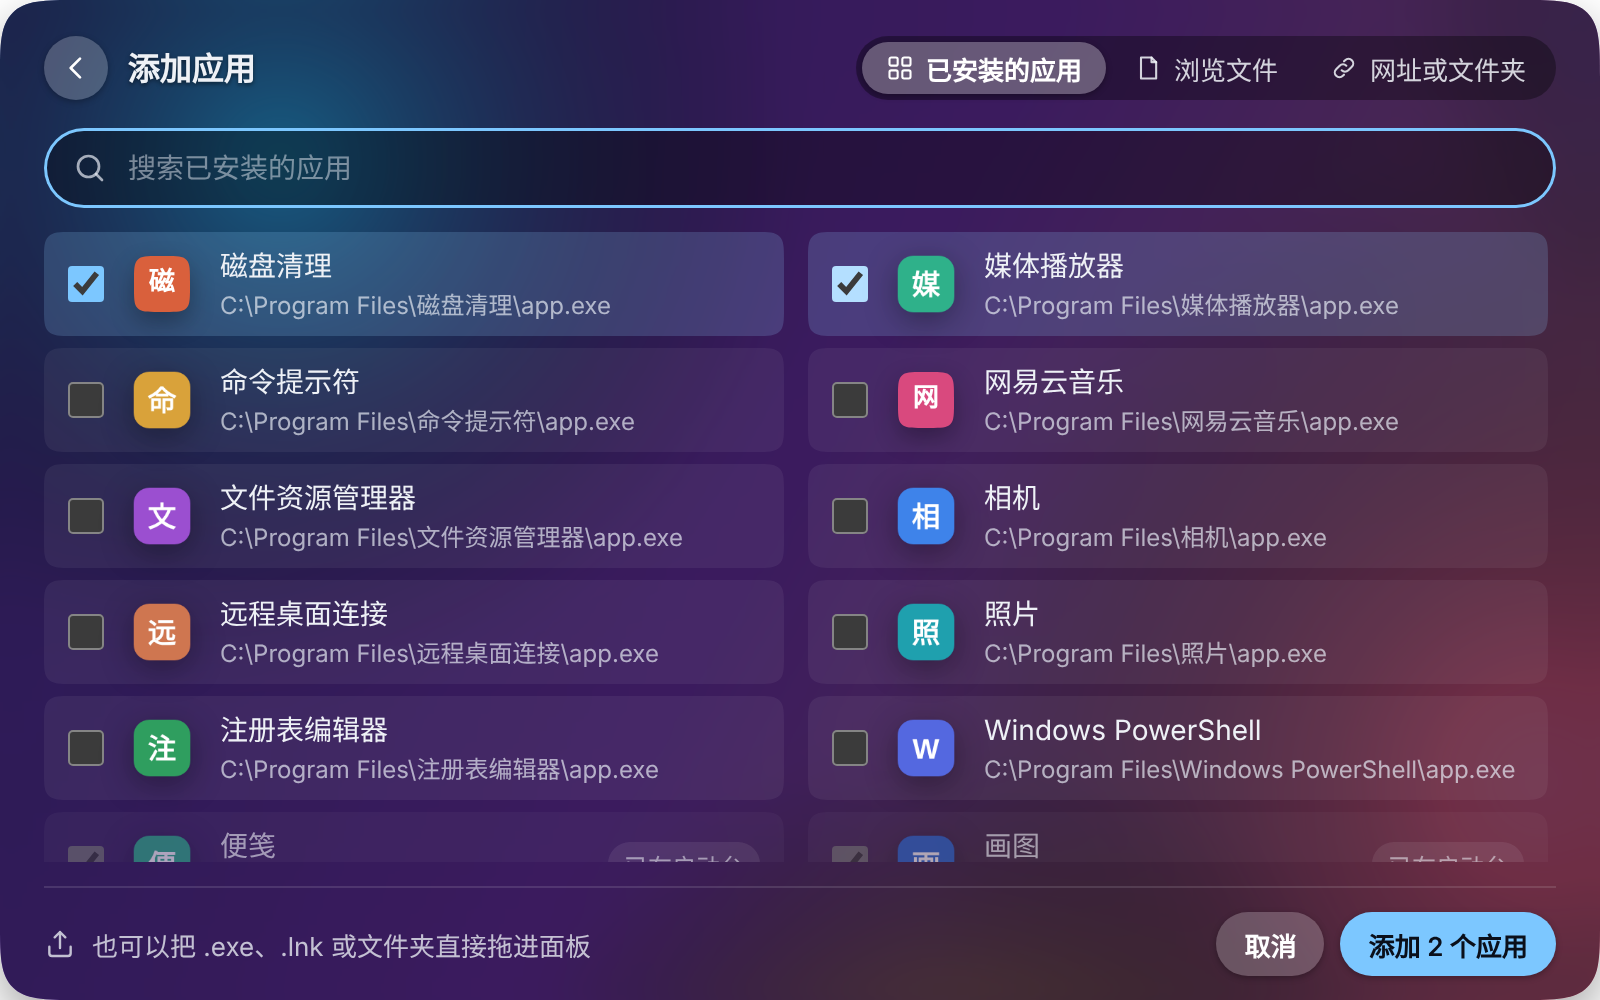
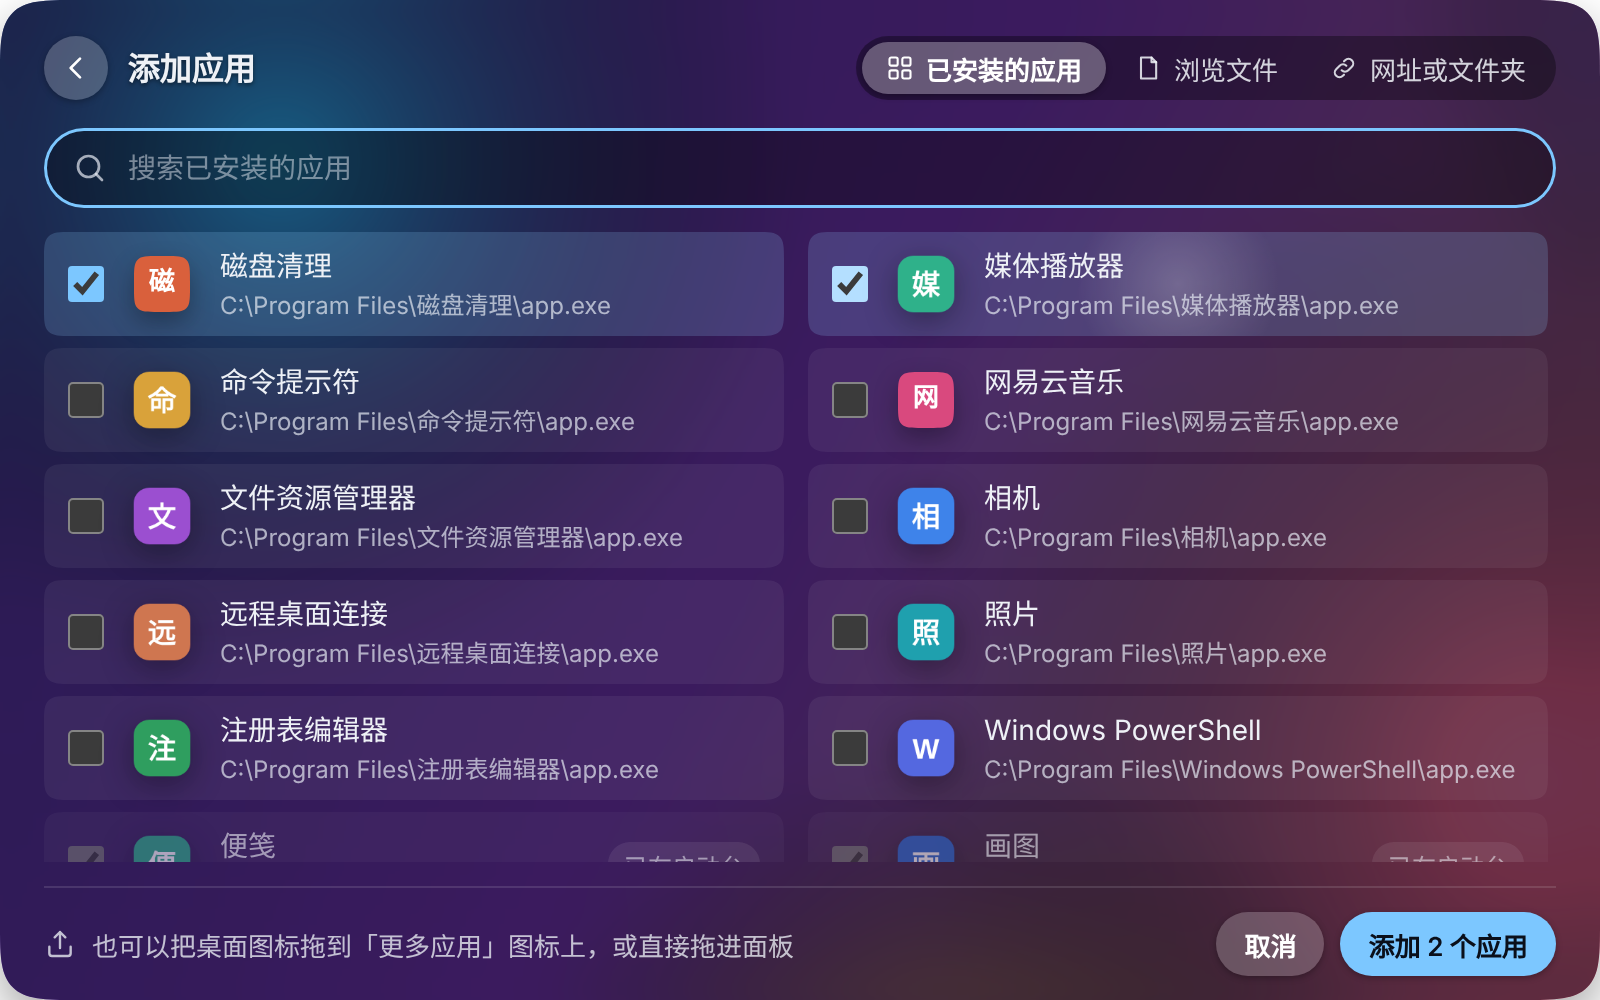
v1.1.0
Claude-Session: https://claude.ai/code/session_017gQoLBrMG8sbh1gfiZNmYV

Changed region(s): [[0.125, 0.93, 0.5, 0.961], [0.7188, 0.248, 0.7812, 0.341]]

diff --git a/README.md b/README.md
@@ -22,6 +22,7 @@
 - **添加任何东西**：把桌面图标直接拖进打开的面板（拖动时面板不会收起），或拖到「更多应用」图标上；也可以从已安装应用里勾选、浏览选择 .exe / .lnk，或者添加一个网址。拖进来的快捷方式会自动对应到已安装的应用。
 - **液态玻璃外观**：面板边缘按真实的玻璃折射扭曲背后的桌面，没有描边；模糊、深浅、宽度、高度、强调色都能在「外观」里实时调。
 - **导出高清图标**：右键应用 →「导出高清图标（给 Nexus 用）」，生成 256px 的 PNG 和 ICO，解决商店应用在停靠栏上发糊的问题。
+- **顺手的细节**：鼠标移到按钮和图标上有跟随指针的柔和高光；面板打开时从停靠栏方向轻轻弹出，关闭时缩小淡出。
 - **键盘可用**：方向键在图标间移动，<kbd>PageUp</kbd> / <kbd>PageDown</kbd> 翻页，<kbd>F5</kbd> 刷新，<kbd>Delete</kbd> 移除。
 
 | 编辑模式 | 外观设置 | 添加应用 |
@@ -32,7 +33,7 @@
 
 ## 下载安装
 
-1. 到 [Releases](../../releases/latest) 下载 `NexusLauncher-Setup-版本号.exe`（约 110 MB，已包含全部运行环境）。
+1. 到 [Releases](../../releases/latest) 下载 `NexusLauncher-Setup-版本号.exe`（约 112 MB，已包含全部运行环境）。
 2. 双击安装：不需要管理员权限，也不需要联网，装在 `%LOCALAPPDATA%\Programs\NexusLauncher`。
 3. 装好后会自动打开启动台；桌面和开始菜单里会出现「更多应用」，把它拖到 Nexus 等停靠栏上就能一键打开。
 
